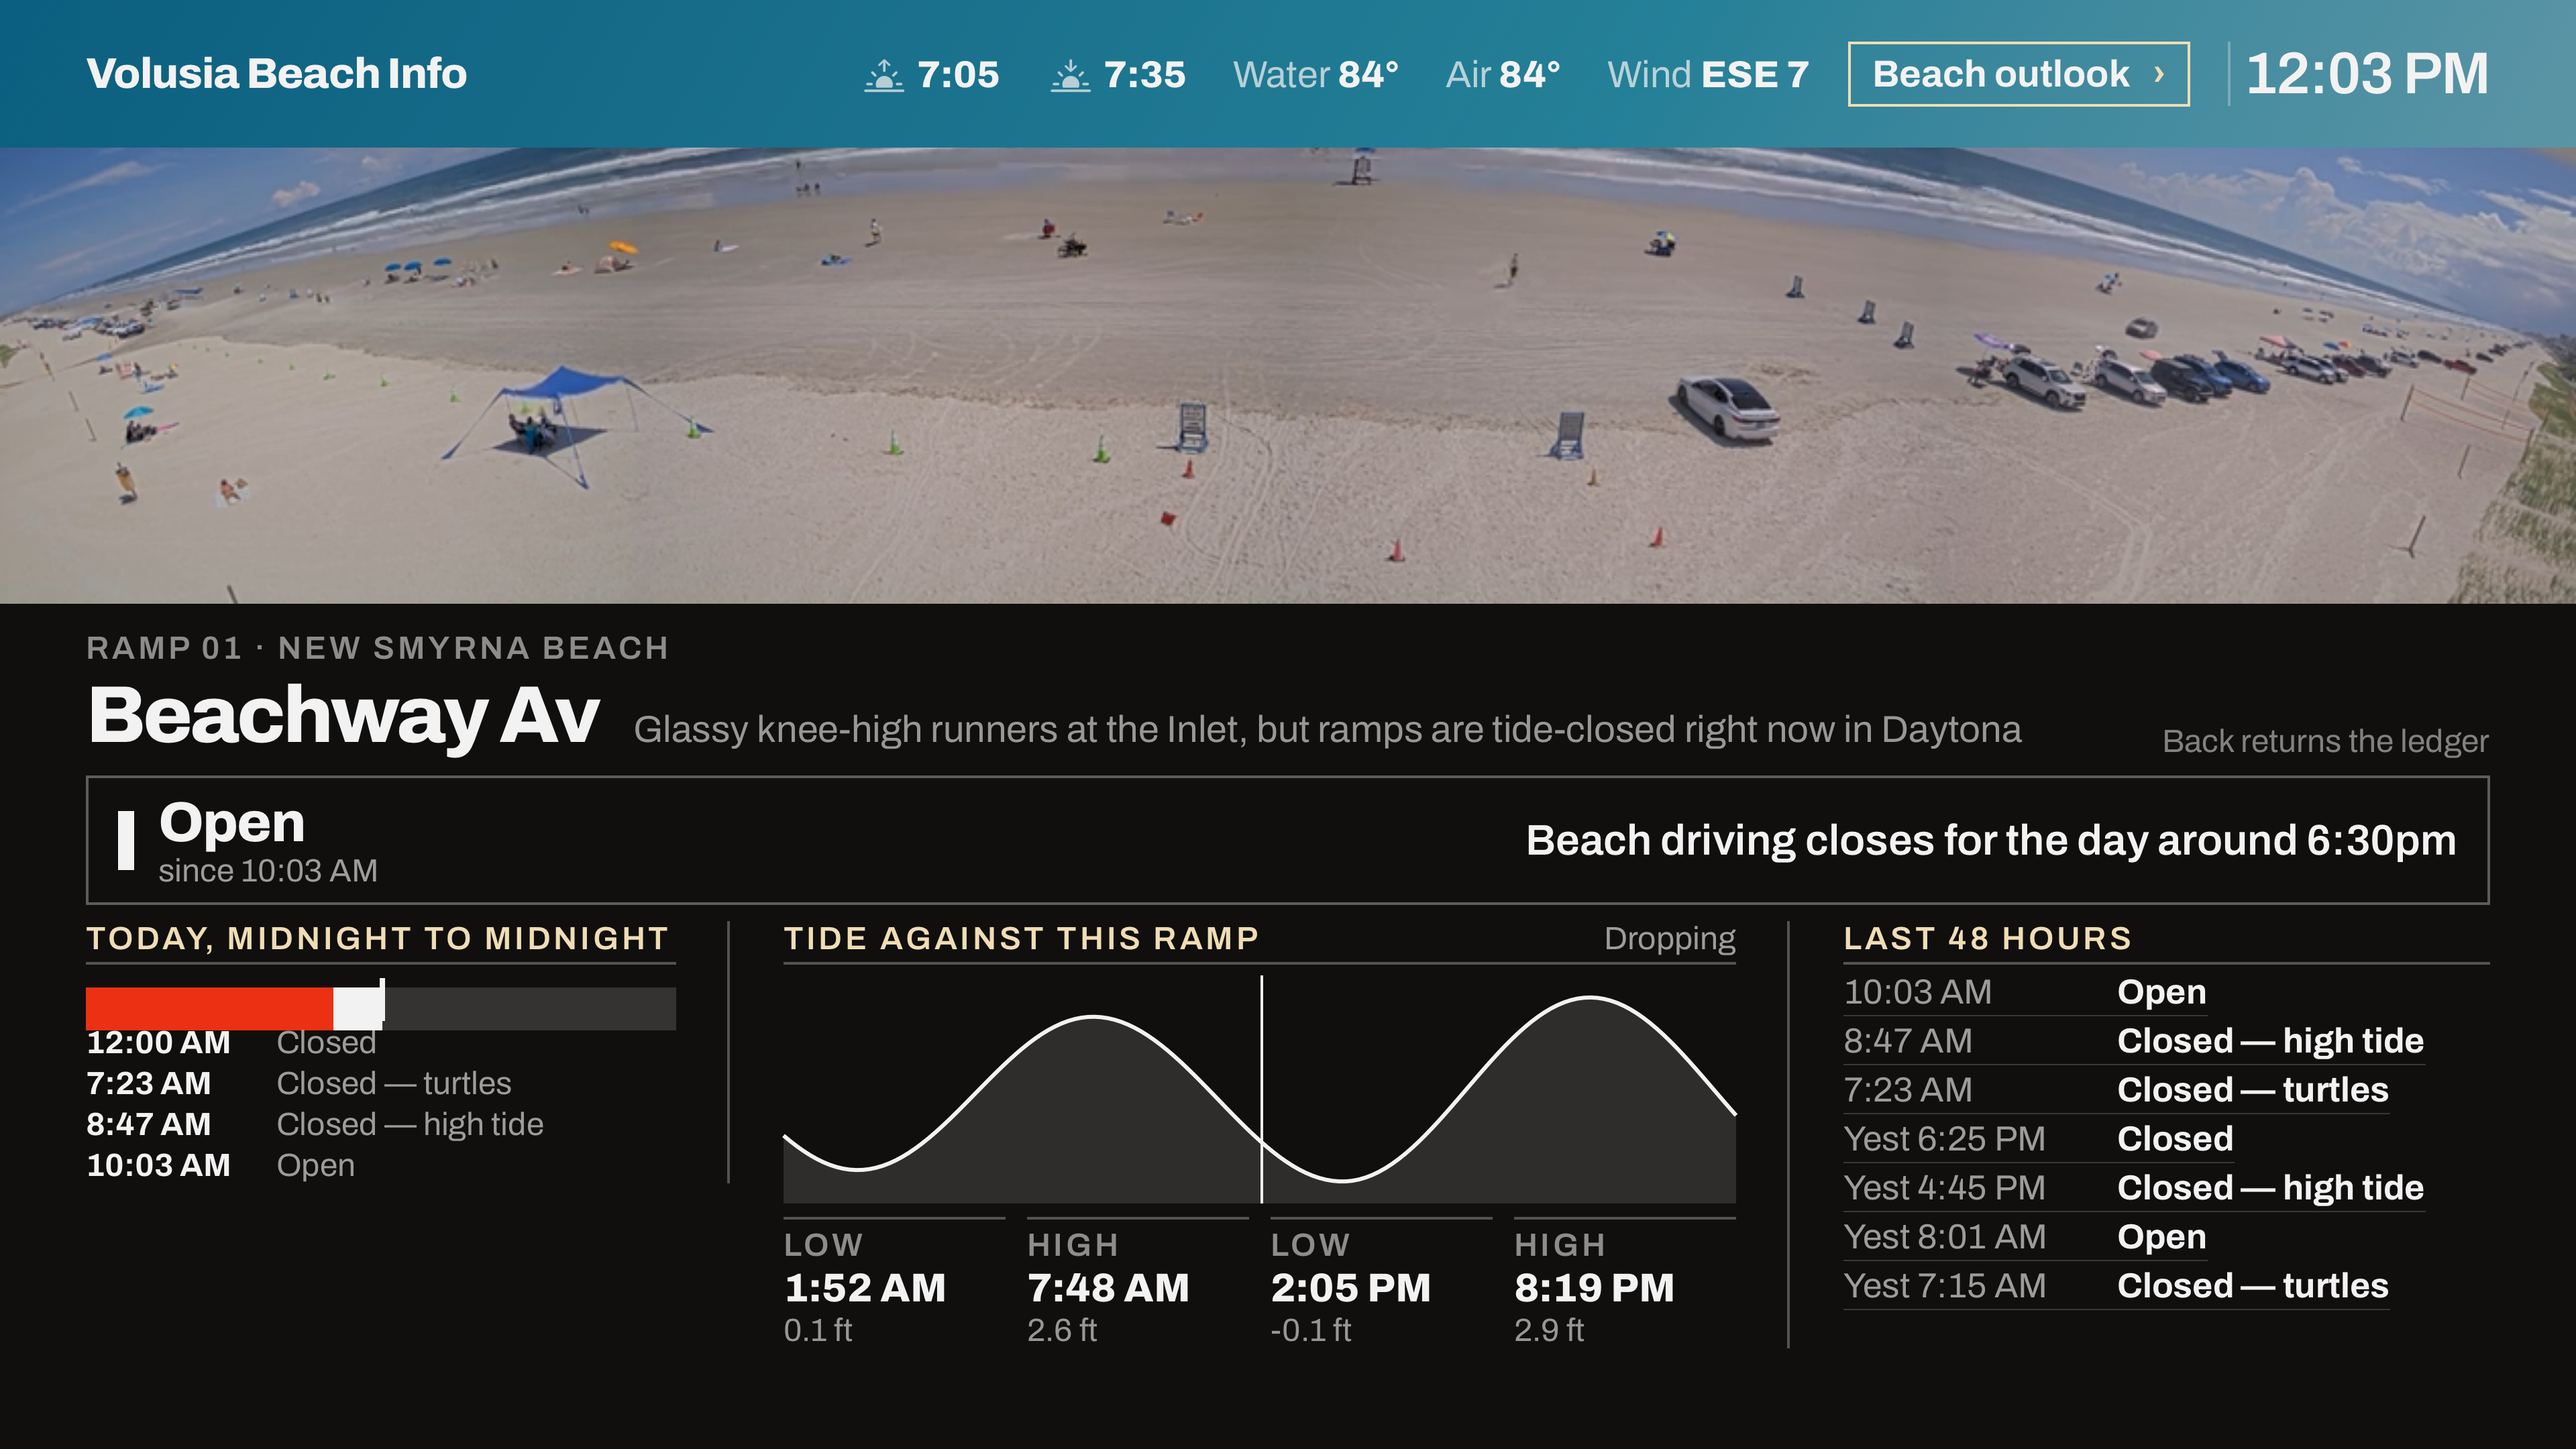
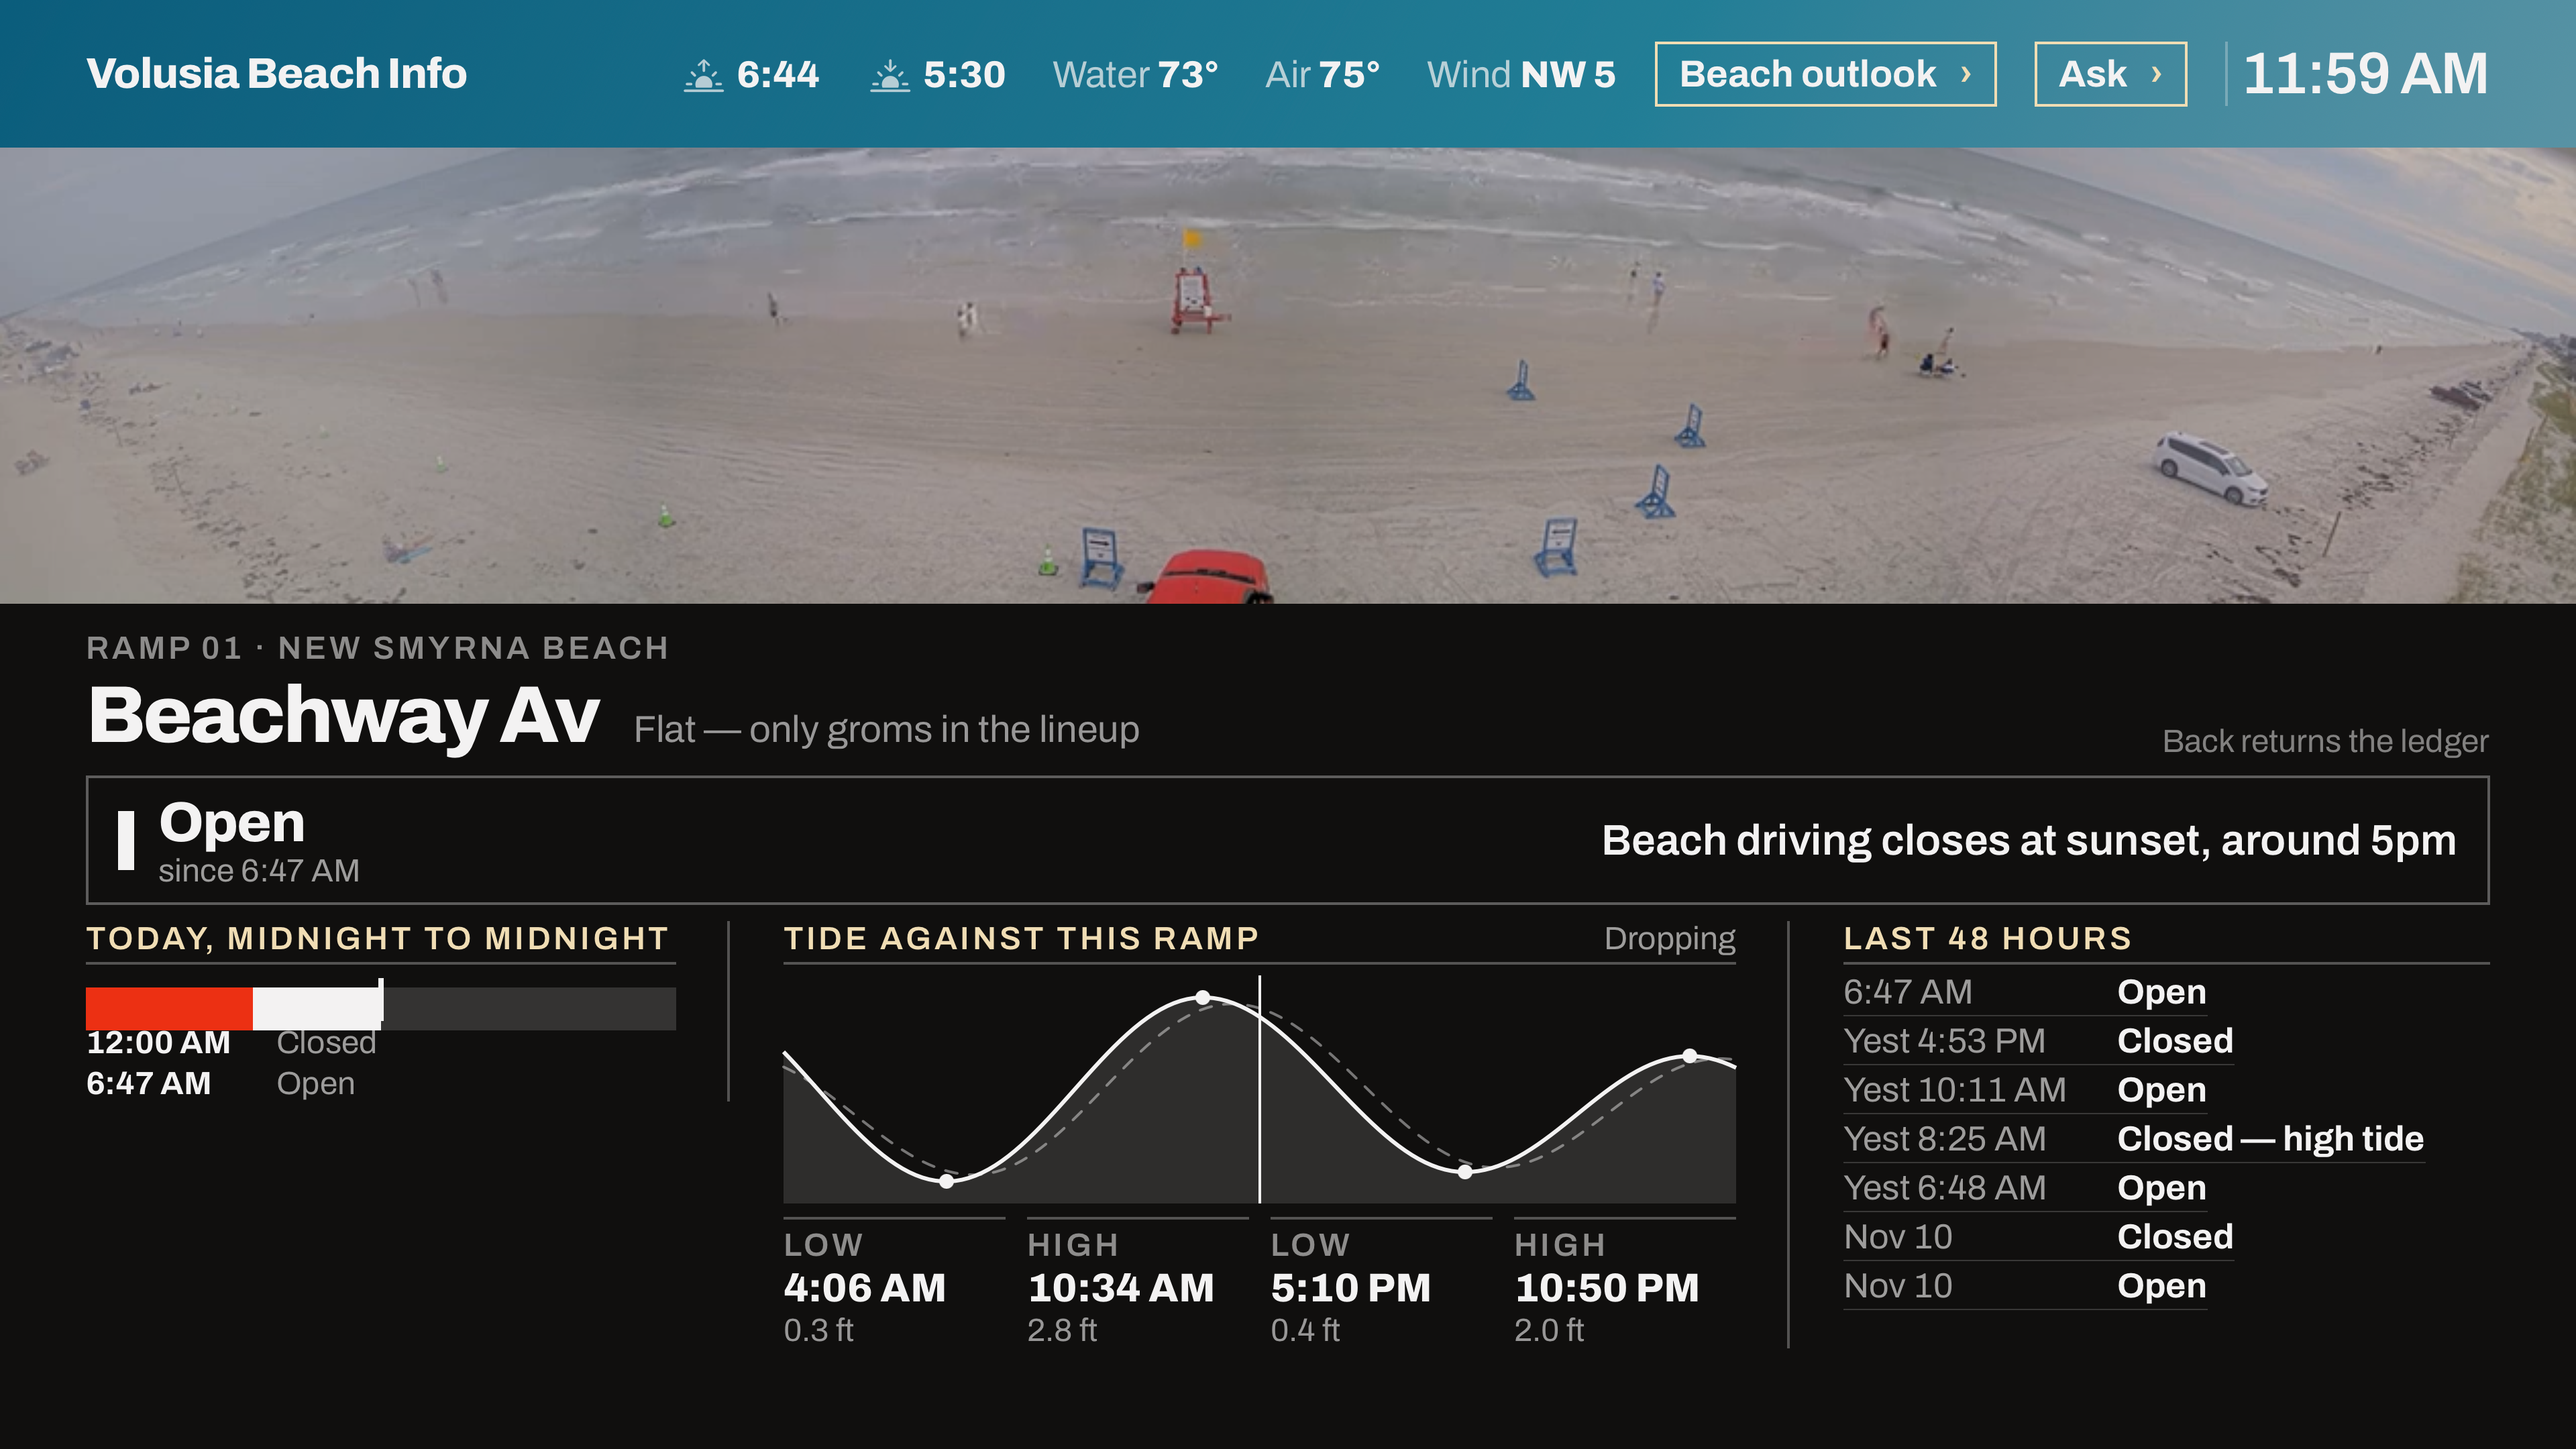
tvOS: stop truncating closure statuses in the ledger; reshoot gallery
The Now column truncated "Closed — high tide" to "Closed — hig…" on every
tide closure, including the lead App Store shot. The ledger now uses compact
closure words ("Closed — tide", "At capacity"), takes 20pt from the name
column, and lets the status shrink to 0.8. The detail surface keeps the full
words. Reshot the Apple TV gallery (surf line now fits; adds 04-ask).

diff --git a/apple/BeachRamp/BeachRampTV/PreviewFixtures.swift b/apple/BeachRamp/BeachRampTV/PreviewFixtures.swift
@@ -180,9 +180,9 @@ enum PreviewFixtures {
     /// Twelve Daytona rows with two closures sorted to the top — exercises
     /// the windowed list, the scroll thumb, and the "12 · 7 below" header.
     static let daytonaRows: [TVRampRowModel] = [
-        TVRampRowModel(id: "DB-1", name: "Harvey Ave", nowLabel: "Closed — high tide",
+        TVRampRowModel(id: "DB-1", name: "Harvey Ave", nowLabel: "Closed — tide",
                        isClosed: true, nextLabel: "often back open around 5:30pm"),
-        TVRampRowModel(id: "DB-2", name: "Van Ave", nowLabel: "Closed — high tide",
+        TVRampRowModel(id: "DB-2", name: "Van Ave", nowLabel: "Closed — tide",
                        isClosed: true, nextLabel: "often back open around 5:30pm"),
     ] + (3...12).map { i in
         TVRampRowModel(id: "DB-\(i)", name: ["Main St", "Seabreeze Blvd", "Auditorium Blvd",

diff --git a/apple/BeachRamp/BeachRampTV/Views/RampsBox.swift b/apple/BeachRamp/BeachRampTV/Views/RampsBox.swift
@@ -4,8 +4,8 @@ import BeachStatus
 /// Shared column layout for the ledger's three-column rows, so the header
 /// labels and the rows can never drift apart.
 enum RampRowLayout {
-    static let name: CGFloat = 340
-    static let now: CGFloat = 195
+    static let name: CGFloat = 320
+    static let now: CGFloat = 215
     static let gap: CGFloat = 20
 }
 
@@ -149,6 +149,7 @@ struct RampsBox: View {
                 Text(row.nowLabel)
                     .tv(26, row.isClosed ? .bold : .semiBold)
                     .lineLimit(1)
+                    .minimumScaleFactor(0.8)
                     .foregroundStyle(row.isClosed ? TVInk.closed : TVInk.type)
                     .frame(width: RampRowLayout.now, alignment: .leading)
                 Text(row.nextLabel ?? "—")

diff --git a/apple/BeachRamp/BeachRampTV/TVDesign.swift b/apple/BeachRamp/BeachRampTV/TVDesign.swift
@@ -136,6 +136,18 @@ func tvStatusWord(_ raw: String) -> String {
     }
 }
 
+/// The ledger's Now column is narrow (`RampRowLayout.now`), so the long
+/// closure words get a compact form there; the detail surface's event log
+/// keeps `tvStatusWord`. "Closed — high tide" truncated to "Closed — hig…"
+/// on every tide closure (caught in the 2026-11-12 gallery reshoot).
+func tvLedgerWord(_ raw: String) -> String {
+    switch raw.uppercased().trimmingCharacters(in: .whitespaces) {
+    case "CLOSED FOR HIGH TIDE": "Closed — tide"
+    case "CLOSED - AT CAPACITY": "At capacity"
+    default: tvStatusWord(raw)
+    }
+}
+
 // MARK: - Tide wave
 
 /// Today's Eastern day plus what the tvOS tide waves draw on it: today's

diff --git a/apple/BeachRamp/BeachRampTV/ContentView.swift b/apple/BeachRamp/BeachRampTV/ContentView.swift
@@ -384,7 +384,7 @@ struct ContentView: View {
             return TVRampRowModel(
                 id: ramp.accessID,
                 name: ramp.rampDisplayName,
-                nowLabel: overnight ? "Closed" : tvStatusWord(ramp.accessStatus),
+                nowLabel: overnight ? "Closed" : tvLedgerWord(ramp.accessStatus),
                 isClosed: overnight || ramp.category == .closed,
                 nextLabel: next
             )
